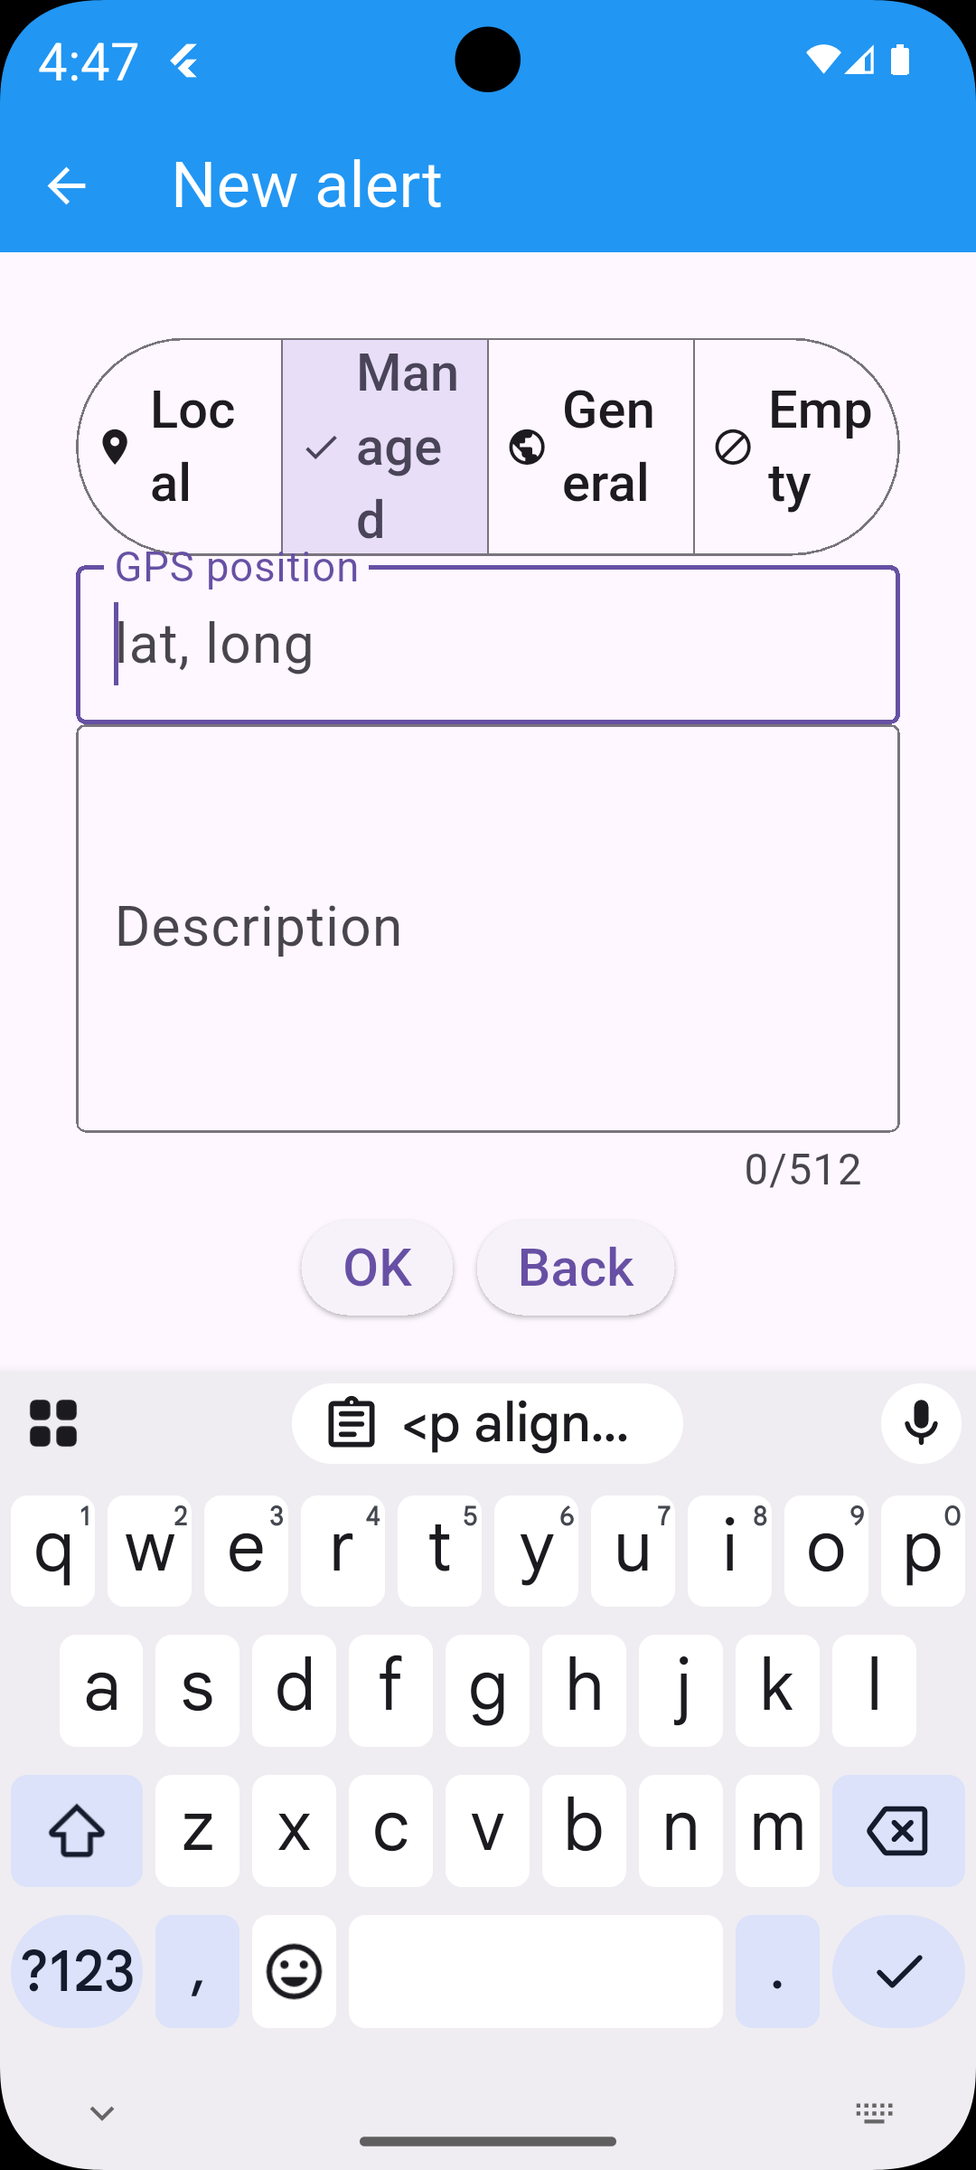
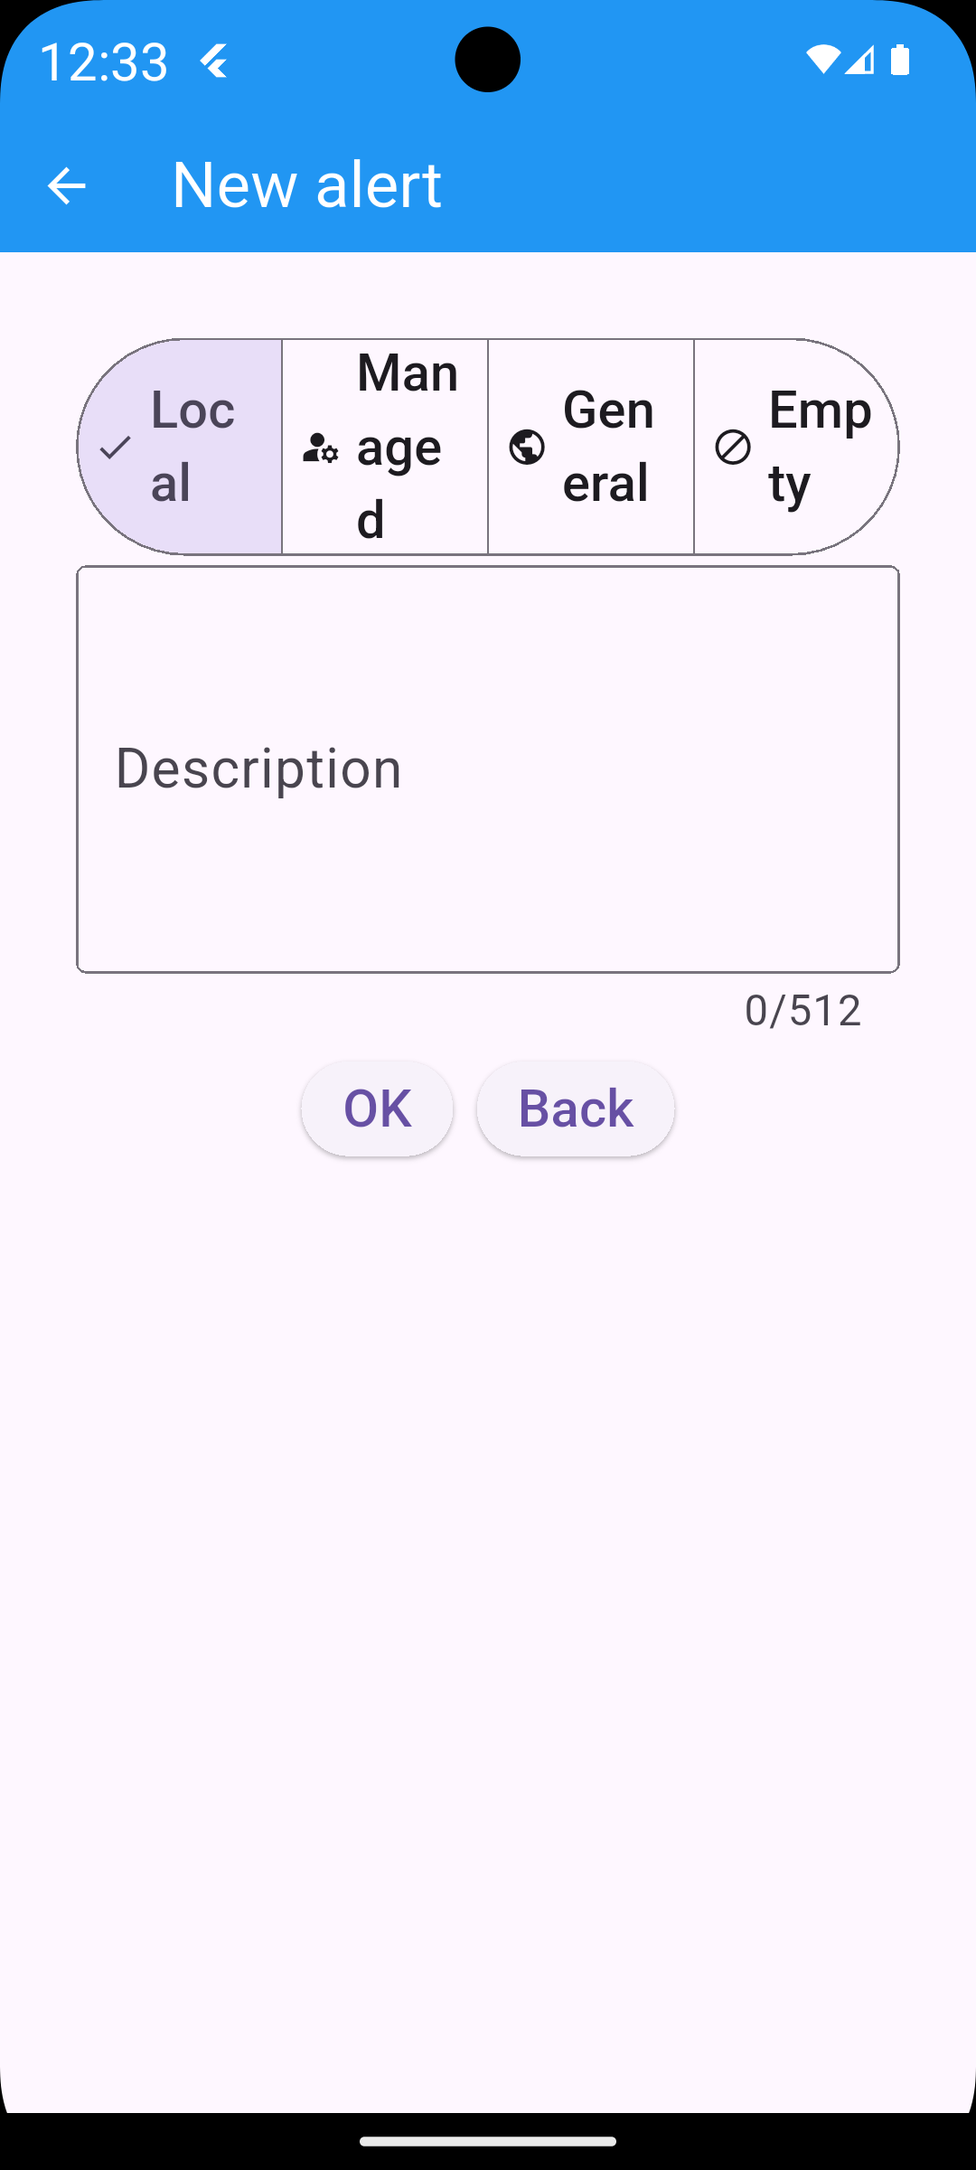
Usage tutorial updated and client version increased.

diff --git a/client/flutter_app/lib/pages/users/promote_results.dart b/client/flutter_app/lib/pages/users/promote_results.dart
@@ -23,7 +23,10 @@ class UsersPromoteResultsPage extends StatelessWidget {
   Widget build(BuildContext context) {
     final loc = AppLocalizations.of(context)!;
     return Scaffold(
-      appBar: CAppBar(title: loc.menuUsers, showBackButton: true),
+      appBar: CAppBar(
+        title: "${loc.menuUsers} (${loc.buttonPromote.toLowerCase()})",
+        showBackButton: true,
+      ),
       body: SafeArea(top: false, child: UsersPromoteResultsBody()),
     );
   }

diff --git a/USAGE.md b/USAGE.md
@@ -24,7 +24,7 @@ After accepting the legal terms, the login page will open. To log in, you must b
 
 ## Registration
 
-Registration has one requirement, as explained on the "Info" page: the user's email address must have been authorized by the administrator or by the "officer" user, i.e. it must have been included in a white list, so make sure you have obtained this authorization.
+Registration has one requirement, as explained on the "Info" page: the user's email address must have been authorized by an administrator or by an "officer" user, i.e. it must have been included in a white list, so make sure you have obtained this authorization.
 
 Registration is simple: simply fill out the short form (first name, last name, email address, password). You must set a strong password, containing at least one uppercase character, one lowercase character, a symbol, and a number, and it must be sufficiently long.
 
@@ -96,9 +96,9 @@ To be notified about nearby alerts at any time, the device needs to periodically
   <img src="client/screenshots/gps_all_the_time_switch.png" alt="GPS all the time switch screenshot" width="256">
 </p>
 
-Now the device will automatically detect your GPS location occasionally, typically only when you've moved significantly (250 meters on foot, or a few kilometers or more when driving at car speeds) or when you experience a change in motion (movement followed by stationary, e.g., "I go to a café and sit at a table"), thus minimizing device battery consumption.
+Now the device will automatically detect in background your GPS location occasionally, typically only when you've moved significantly (250 meters on foot, or a few kilometers or more when driving at car speeds) or when you experience a change in motion (movement followed by stationary, e.g., "I go to a café and sit at a table"), thus minimizing device battery consumption.
 
-However, to ensure this background process isn't interrupted by the device power management mechanism, you should set the battery to "Unrestricted" in the "Battery" section of the system settings relative to Quidalert app. See the following section.
+However, to ensure this background process isn't interrupted by the device power management mechanisms, you should set the battery to "Unrestricted" in the "Battery" section of the system settings related to Quidalert app. See the following section.
 
 ### Battery unrestricted
 
@@ -124,8 +124,8 @@ Click to "Battery" or "App battery usage", and then switch to "Unrestricted"
 
 Now you can go back by clicking on the "back" button in the top left corner, and then on the "back" button again until you return to the Quidalert app home page.
 
-NOTE: if you want to check the permissions granted, or if you forget to grant any of the permissions just discussed, don't worry. You can fix this by going to the system settings for the Quidalert app (settings -> apps -> Quidalert) and manually changing the various permissions (notifications, authorizations->locations, autorizations->physical activity, "battery").  
-Furthermore, if the system detects that permissions are missing, it presents the user with the same screens seen a moment ago, giving them the opportunity to set the correct permissions.
+NOTE: if you want to check the permissions granted, or if you forget to grant any of the permissions just discussed, don't worry. You can fix this by going to the system settings for the Quidalert app (settings -> apps -> Quidalert) and manually changing the various permissions in these sections: notifications, authorizations->locations, autorizations->physical activity, "battery".  
+Furthermore, if the system detects that some permissions are missing, it presents the user with the same screens seen a moment ago, giving them the opportunity to set the correct permissions.
 
 ## Home page
 
@@ -153,10 +153,10 @@ Useful for verifying the correct functioning of the GPS location detection syste
   <img src="client/screenshots/gps_location_test.png" alt="GPS location test screenshot" width="256">
 </p>
 
-On the same page, we also have the device's latest GPS location sent to the server in the background.
+On the same page, we can also see the device's latest GPS location sent to the server in the background.
 
-Interesting note: the GPS location detected by this test will be sent to the server, ensuring the server has a new, updated GPS location (especially useful for "chief" users, if their device remains stationary for a long time without detecting new background locations to send to the server). Remember that the server deletes users' GPS locations that are older than a week, and in order to be alerted, users and chiefs must have a recent known GPS location stored on the server.  
-Simply put, the test button can be used to perform a GPS check, or it can be used to refresh the user's GPS location on the server.
+NOTE: the GPS location detected by this test will be sent to the server if enough time has passed from the last test, ensuring the server has a new, updated GPS location (especially useful for "chief" users, if their device remains stationary for a long time without detecting new background locations to send to the server). Remember that the server deletes users' GPS locations that are older than a week, and in order to be alerted, users and chiefs must have a recent known GPS location stored on the server.  
+Simply put, the test button can be used to perform a GPS check, and it can also be used to refresh the user's GPS location on the server.
 
 At the bottom of the page, there's also a list of locations detected by the device in the background, but not yet sent to the server (perhaps due to internet issues). The device will automatically send them as soon as internet is available again, but you can force the upload manually. The server will only store the most recent location.
 
@@ -170,7 +170,7 @@ Creating an alert is easy. Just go to "New Alert" and enter a description. The d
 
 NOTE: if an alert with a similar description is sent within an hour from the last alert and within the same radius, it will be ignored and the user will immediately receive an error message.
 
-NOTE FOR CHIEFS: Chief users can send regular alerts like other users, but they can also send "managed" alerts (the GPS location is customized) and global alerts (general alerts visible to all users within the server's scope). They can also create "empty" alerts (without alerted users), ready to be expanded later with a large radius. If the user is a "chief", a special selector will be shown to choose the alert type.
+NOTE FOR CHIEFS: chiefs can send regular alerts like other users, but they can also send "managed" alerts (the GPS location is customized) and general alerts (global alerts visible to all users within the server's scope). They can also create "empty" alerts (without alerted users), ready to be expanded later with a large radius. If the user is a "chief", a special selector will be shown to choose the alert type.
 
 <p align="center">
   <img src="client/screenshots/new_alert_by_chief.png" alt="New alert by chief screenshot" width="256">
@@ -178,9 +178,9 @@ NOTE FOR CHIEFS: Chief users can send regular alerts like other users, but they 
 
 A NOTE ABOUT THE NUMBER OF ALERTED USERS
 
-For efficiency reasons, the server propagates the alert to a maximum of 1000 nearby users. This applies to both the creation of an alert and the expansion function.
+For efficiency reasons, the server propagates the alert to a maximum of 1000 nearby users. This applies to both the creation and the expansion of an alert.
 
-The system allows the rescue leader (chief) to perform 3 expansions, so, if we want to do a calculation: the maximum number of alerted users, for a given alert, is 4000 (1000 during creation, and then 1000 for each of the three expansions), 4001 if we include the chief in the calculation.
+The system allows the rescue leader (chief) to perform 3 expansions, so, if we want to do a calculation: the maximum number of alerted users, for a given alert, is 4000 (1000 during creation, and then 1000 for each of the three expansions), 4001 if we include the alerted chief in the calculation.
 
 ## Alert details
 
@@ -192,25 +192,26 @@ This is the details page for an alert. We can see the GPS location of the user w
   <img src="client/screenshots/alert_details_by_sender.png" alt="Alert details perspective of the sender screenshot" width="256">
 </p>
 
-The data regarding the accuracy of the GPS position is interesting, so nearby users and the chief of the rescue team can get an idea of the accuracy of the displayed GPS position, and perhaps the chief can ask the sender of the alert for clarification via message directly in the alert chat.
+The data regarding the accuracy of the GPS position is interesting, so nearby users and the chief of the rescue team can get an idea of the accuracy of the displayed GPS position, and perhaps the chief can ask the sender of the alert for clarification regarding where he is located, via message directly in the alert chat, explained below.
 
-There's also other useful data (name of the alert sender, name of the alerted leader, and number of alerted users).
+There's also other useful data (name of the alert sender, name of the alerted chief, and number of alerted users).
 
 Then we see that there's also a chat feature, thanks to which the sender and the alert leader can write messages, and nearby alerted users can read them.
 
 ### Alert details from the perspective of nearby users
 
-Nearby users see a page almost identical to this one. They have the option to vote on the alert (confirm, deny, or remain neutral).
+Nearby users see a page almost identical to the previous one just examined. They have the option to vote on the alert (confirm, deny, or remain neutral).
 
 <p align="center">
   <img src="client/screenshots/alert_details_by_nearby_users.png" alt="Alert details perspective of nearby users screenshot" width="256">
 </p>
 
-Votes must be carefully considered, because when the chief closes the alert, they can also confirm or deny it. If the alert is confirmed by the chief, the system will reward all users who confirmed it (including the alert sender) and penalize those who denied it. Conversely, if the alert is denied by the chief, the system will reward users who denied it and penalize those who confirmed it (also penalizing the alert sender).
+Votes must be carefully considered, because when the chief closes the alert, he can also confirm or deny it. If the alert is confirmed by the chief, the system will reward all users who confirmed it (including the alert sender) and penalize those who denied it. Conversely, if the alert is denied by the chief, the system will reward users who denied it and penalize those who confirmed it (also penalizing the alert sender).
 
-The penalty consists of a reduction in the reliability score. Users with a low score will be able to issue alerts with a more limited radius, and if the score drops to zero, or negative, they will not be able to issue alerts.
-
+The penalty consists of a reduction in the reliability score. Users with a low score will be able to issue alerts with a more limited radius, and if the score drops to zero, or negative, they will not be able to issue alerts.  
 After a few months, the reliability score slowly starts to increase again.
+
+The reward, conversely, is an increase in the reliability score and in the "hero score" (the latter is more of a symbolic score).
 
 ### Alert details from the perspective of the chief
 
@@ -266,7 +267,7 @@ The chat is very useful: if the alert sender forgets to write something in the a
 
 ## Recent alerts
 
-On the "recents" page, you can see general alerts, as these are by nature visible to everyone, and then **only alerts in which the user is involved** in some way (as alerted "chief" manager, as an alerted nearby user, or as an alert sender).
+On the "recents" page, you can see general alerts, as these are by nature visible to everyone, and regarding the other ones, you can see **only alerts in which the user is involved** in some way (as alerted "chief" manager, as an alerted nearby user, or as an alert sender).
 
 <p align="center">
   <img src="client/screenshots/recents.png" alt="Recent alerts screenshot" width="256">
@@ -286,32 +287,34 @@ But be careful to write it down correctly, because after three incorrect attempt
 
 Regular users and chiefs can delete their accounts if they no longer wish to use the service: at the bottom of the Quidalert app home page, there's a button to request account deletion. Simply type "DELETE" and click OK. Deletion isn't immediate; it takes 30 days. If the user logs in again within 30 days, the deletion will be instantly reversed (the account will remain active).
 
-After 30 days, the account will be inactivated and can no longer be used (unless a new account is created).
+After 30 days, the account will be inactivated and can no longer be used (unless a new account with the same email address is created).
 
 The user will remain technically stored in the database (the email address will remain stored), but their personal data will be anonymized.
 
-After 2 years, all traces of the user will be deleted from the database, including the email address used to authorize registration.
+After 2 years, all traces of the inactive user will be deleted from the database, including the email address used to authorize registration.
 
 ## Section dedicated to admins and officers
 
-The first user to register on the server, with the password set at the server environment level, gains superuser privileges, meaning they are an "admin" user with some additional privileges. NOTE: The superuser does not need to be authorized (whitelisted) to register their account.
+The first user to register his account on the server, with the password set at the server environment level, gains superuser privileges, meaning he becomes an "admin" user with some additional privileges. NOTE: The superuser does not need to be authorized (whitelisted) to register their account.
 
-The superuser can authorize other "admin" users if desired, or they can authorize "officer" users (which are actually the municipalities in the area).
+All the other users **must be authorized in the whitelist** to be able to register their account.
+
+The superuser can authorize other "admin" users if desired, or he can authorize "officer" users (which are actually the municipalities in the area).
 
 Admins (or the superuser) must authorize the "chiefs" in addition to the "officers".
 
-NOTE: by "authorize" we mean **adding the email address of the user** to be authorized to the whitelist.
+NOTE: by the word "authorize" we mean **adding the email address of the user** (to be authorized) to the whitelist.
 
 Once authorized, "officers" and "chiefs" will register their accounts as explained at the beginning of the tutorial.
 
-Officers will then authorize their own citizens or specialists in their territory of responsibility on the whitelist.
+Officers will then authorize (on the whitelist) their own citizens or specialists, residing in their territory of responsibility.
 
 Citizens and specialists authorized by officers will register normally, as explained at the beginning of the tutorial.
 
-NOTE: This process does not need to be completed in one go. It may take some time. As users are authorized by their municipalities (officers), they register and begin using the system.
+NOTE: this process does not need to be completed in one go. It may take some time. As users are authorized by their municipalities (officers), they register and begin using the system.
 
-However, we'll see that admins and officers can add users to the whitelist in bulk using a CSV file. 
-This process can be repeated, that is, you can add other users to the whitelist always with another CSV file, and so on.
+We'll see that admins and officers can add users to the whitelist in bulk using a CSV file. 
+This process can be repeated, that is, you can add other users to the whitelist, with another CSV file, and so on.
 
 Of course, you can also add users to the whitelist individually.
 
@@ -343,11 +346,11 @@ To authorize (insert email addresses in the whitelist), as we mentioned, there a
   <img src="client/screenshots/whitelist_add.png" alt="Add entries to whitelist screenshot" width="256">
 </p>
 
-IMPORTANT: For each insertion operation, make sure you have selected the type or role of the user (or users) you are authorizing, who will register later.
+IMPORTANT: For each insertion operation, make sure you have selected the pending type or role of the user (or users) you are authorizing, who will register their account later.
 
-Officers can select only the role: they cannot define the "type", obviously, because they have less privileges than the admins.
+Officers can select only the pending "role": they cannot define the "type", obviously, because they have less privileges than the admins.
 
-NOTE: by leaving the "type" and "role" fields blank, the authorized user or users will be simple base users with the default role "citizen".
+NOTE: by leaving the pending "type" and "role" fields blank, the authorized user or users will be, after the later registration, simple base users with the default role "citizen".
 
 NOTE: if you make a mistake when whitelisting entries, please note that as long as users do not register, these entries can be deleted by using the whitelist deletion process, which we will see below.
 
@@ -368,7 +371,7 @@ Officers can bulk view only the email addresses authorized by them (with "All" b
 
 ### Delete whitelist entries
 
-Regarding deletion, you can delete whitelisted email addresses (i.e., remove their registration authorization) associated to users who have not yet registered. This is a strict rule: you can only remove the email addresses of users who haven't yet registered their accounts from the whitelist.
+Regarding deletion, you can delete whitelisted email addresses associated to users who have not yet registered. This is a strict rule: from the whitelist, you can only remove the email addresses of users who haven't yet registered their accounts.
 
 <p align="center">
   <img src="client/screenshots/whitelist_delete.png" alt="Delete entries in whitelist screenshot" width="256">
@@ -393,9 +396,9 @@ We show the result page.
   <img src="client/screenshots/users_search_result.png" alt="Search users result screenshot" width="256">
 </p>
 
-NOTE (about bulk mode): any admin can perform global searches (based on the criteria available in the module) on all registered users, while an officer can mass search only for users authorized by him.
+NOTE (about bulk mode): any admin can perform bulk searches (based on the criteria available in the module) on all registered users, while an officer can bulk search only for users authorized by him.
 
-NOTE (about single mode): in single mode, officers can search for a single user, even if they have been authorized by someone else.
+NOTE (about single mode): in single mode, officers can search for a single user by email, even if the single user has been authorized by someone else.
 
 ### Promote users
 
@@ -403,7 +406,7 @@ Now, pay attention to how promoting users (or "updating" users) works.
 
 Using the search form, we search for all users who meet a certain criteria (for example, all users with the "alpinerescuer" role), and the results are displayed.
 
-Now, if we click "promote" the system remembers the query we entered, and the change we make will be based on these same search criteria. In practice, in this example, we will promote (update) to "volunteer" all users with the alpinerescuer role.
+Now, if we click "Promote/modify query users" the system remembers the query we entered, and the change we will make in the promotion page will be based on these same search criteria. In practice, in this example, we will promote (update) all users with the "alpinerescuer" role to the new "volunteer" role.
 
 <p align="center">
   <img src="client/screenshots/users_promote.png" alt="Promote users screenshot" width="256">
@@ -417,10 +420,10 @@ NOTE: officers cannot promote users who have been authorized by others.
 
 Earlier, we saw how to search for registered users using the search form.
 
-You can search for users using a CSV file containing the email addresses you want to search for.
+You can also search for users using a CSV file containing the email addresses you want to search for.
 
 <p align="center">
   <img src="client/screenshots/users_search_by_csv.png" alt="Search users by CSV screenshot" width="256">
 </p>
 
-Any promotion of found users will apply to these users.
+...and an eventual click on "promote/modify query users" will be applied to these found users.
